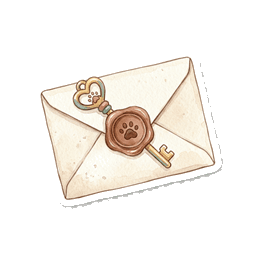
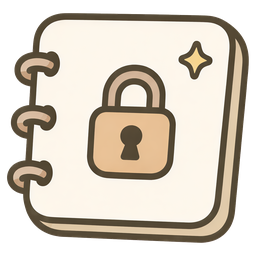
小程序: 更换每日暗号图标为挂锁笔记本插画

diff --git a/docs/features/miniapp.md b/docs/features/miniapp.md
@@ -136,7 +136,7 @@ npm run build:weapp --prefix miniapp
 | `navigation/game.png` | 256×256 | 97 KB | 爪印菜单游戏入口图标 |
 | `navigation/tarot.png` | 256×256 | 99 KB | 爪印菜单塔罗占卜入口图标 |
 | `navigation/gobang.png` | 256×256 | 94 KB | 游戏弹窗五子棋入口图标 |
-| `navigation/codeword.png` | 256×256 | 93 KB | 爪印菜单每日暗号图标 |
+| `navigation/codeword.png` | 256×256 | 60 KB | 爪印菜单每日暗号图标（挂锁笔记本） |
 | `me/mbti.png` | 128×128 | 30 KB | 我的页性格类型入口图标 |
 | `nest/letter-paper.png` | 720×420 | 51 KB | 无好友小窝信件信纸背景 |
 | `nest/xiaoduoli-box.png` | 520×440 | 156 KB | 邀请/待解锁纸箱 |
